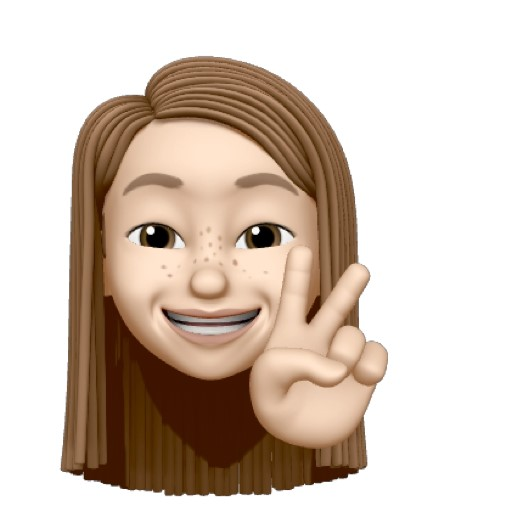
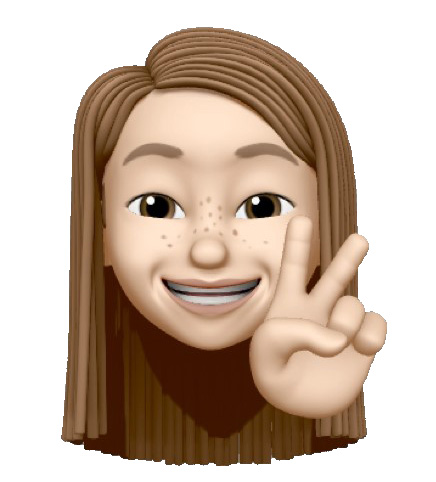
Cambios inicio

diff --git a/Inicio.html b/Inicio.html
@@ -23,7 +23,7 @@
                 </a>  
                 <ul class="nav justify-content-end">
                 <li class="nav-item">
-                  <a class="nav-link active" aria-current="page" href="https://ead-codigo-2022.github.io/bitacora-personal-Agoldrine22/">Menú</a>
+                  <a class="nav-link active" aria-current="page" href="https://ead-codigo-2022.github.io/bitacora-personal-Agoldrine22/">Inicio</a>
                 </li>
                 <li class="nav-item">
                   <a class="nav-link" href="#">Registro Clases</a>
@@ -34,13 +34,16 @@
                 <li class="nav-item">
                   <a class="nav-link" href="https://wiki.ead.pucv.cl/Alondra_Zamorano">wiki e[ad]</a>
                 </li>
+                <li class="nav-item">
+                  <a class="nav-link" href="#">Sobre mí</a>
+                </li>
                 </ul>
             </div>
         </nav>
     </header>
-    <div class="line-1"></div>
     <div class="main-content">
-        <div class="main-content-items">     
+        <div class="main-content-items">
+          <img class="image-inicio" src="images/me.jpg" alt="Memoji-Alondra">     
             <h1>¡BIENVENID@!</h1> <br>
             <p> Mi nombre es Alondra Zamorano Goldrine, tengo 22 años y soy estudiante de Diseño de la PUCV.
                 Esta es mi primera vez programando y esta es mi bitacora del curso Diseño desde el Código.

diff --git a/css/style.css b/css/style.css
@@ -37,6 +37,7 @@ nav {
     font-size: 0.8rem;
     margin-left: 0;
     margin-right: 0;
+    padding-right: 0;
 }
 
 a.nav-link:visited{
@@ -48,6 +49,12 @@ a.nav-link:hover{
     text-shadow: 0px 4px 4px rgba(0, 0, 0, 0.15);
 }
 
+img.image-inicio {
+    width: 200px;
+    border-radius: 50%;
+    background-image: none;
+}
+
 .container-fluid {
     padding-right: 0;
     padding-left: 0;
@@ -56,10 +63,10 @@ a.nav-link:hover{
 .main-content {
     background-color: #F0F1F2;
     max-width:100%;
-    height:  660px;
+    height: fit-content;
     margin: 0 auto;
     text-align:center;
-    padding-top: 100px;
+    /*padding-top: 100px;*/
 }
 
 div.container-fluid-registro-clases {
@@ -85,8 +92,7 @@ div.container-fluid-registro-clases {
 div.main-content-items{
     background-color: #DCF2BB;
     max-width: 100%;
-    height: 460px;
-    padding: 100px;
+    padding: 50px;
     align-items: center;
 }
 
